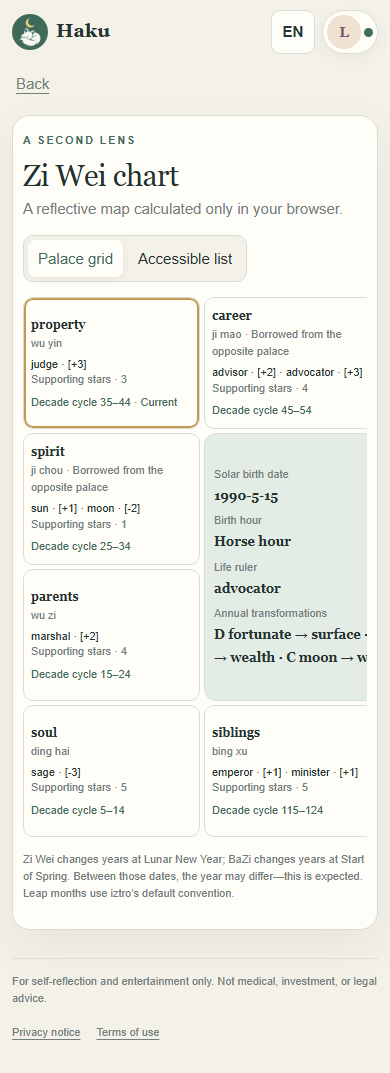
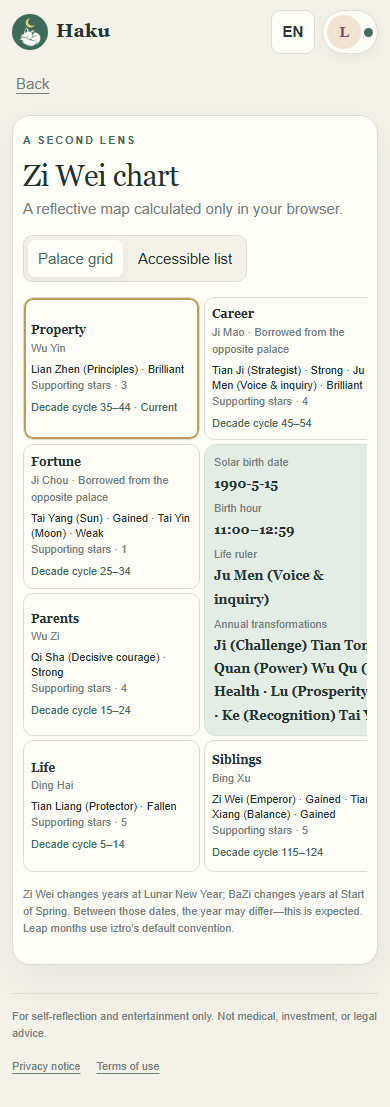
fix: refine Zi Wei English localization

diff --git a/haku.html b/haku.html
@@ -231,7 +231,7 @@ window.HAKU_API_BASE=window.HAKU_API_BASE||(/^https?:$/.test(location.protocol)?
   Object.assign(T.en,{profileGender:'Gender',viewZiwei:'View Zi Wei chart',myZiwei:'My Zi Wei chart',ziweiEyebrow:'A second lens',ziweiTitle:'Zi Wei chart',ziweiIntro:'A reflective map calculated only in your browser.',chartGrid:'Palace grid',chartList:'Accessible list',ziweiLoading:'Preparing your chart…',ziweiUnavailable:'The Zi Wei chart is temporarily unavailable. Your six-page BaZi story still works.',ziweiNeedsTime:'A birth time is needed to create a Zi Wei chart.',ziweiNoDecadal:'Decade cycles are hidden because gender was not disclosed.',ziweiFootnote:'Zi Wei changes years at Lunar New Year; BaZi changes years at Start of Spring. Between those dates, the year may differ—this is expected.',ziweiLeapNote:'Leap months use iztro’s default convention.',ziweiDetails:'Palace details',ziweiMajor:'Major stars',ziweiAux:'Supporting stars',ziweiDecadal:'Decade cycle',ziweiCurrent:'Current',ziweiSolar:'Solar birth date',ziweiLunar:'Lunar birth date',ziweiTime:'Birth hour',ziweiFive:'Five-elements class',ziweiSoul:'Life ruler',ziweiBody:'Body ruler',ziweiTransformations:'Annual transformations'});
   Object.assign(T.vi,{profileGender:'Giới tính',viewZiwei:'Xem lá số Tử Vi',myZiwei:'Lá số Tử Vi của tôi',ziweiEyebrow:'Một góc nhìn khác',ziweiTitle:'Lá số Tử Vi',ziweiIntro:'Bản đồ suy ngẫm chỉ được tính trong trình duyệt của bạn.',chartGrid:'Lưới cung',chartList:'Danh sách hỗ trợ đọc màn hình',ziweiLoading:'Đang lập lá số…',ziweiUnavailable:'Tạm thời không thể tải lá số Tử Vi. Câu chuyện Bát Tự sáu trang vẫn hoạt động.',ziweiNeedsTime:'Cần giờ sinh để lập lá số Tử Vi.',ziweiNoDecadal:'Đại hạn được ẩn vì bạn không tiết lộ giới tính.',ziweiFootnote:'Tử Vi đổi năm vào Tết âm lịch; Bát Tự đổi năm ở Lập Xuân. Người sinh giữa hai mốc có thể thấy hai năm khác nhau—điều này là bình thường.',ziweiLeapNote:'Tháng nhuận dùng quy ước mặc định của iztro.',ziweiDetails:'Chi tiết cung',ziweiMajor:'Chính tinh',ziweiAux:'Phụ tinh',ziweiDecadal:'Đại hạn',ziweiCurrent:'Hiện tại',ziweiSolar:'Ngày sinh dương lịch',ziweiLunar:'Ngày sinh âm lịch',ziweiTime:'Giờ sinh',ziweiFive:'Ngũ hành cục',ziweiSoul:'Mệnh chủ',ziweiBody:'Thân chủ',ziweiTransformations:'Tứ hóa năm sinh'});
   Object.assign(T.zh,{profileGender:'性别',viewZiwei:'查看紫微命盘',myZiwei:'我的紫微命盘',ziweiEyebrow:'另一种观察角度',ziweiTitle:'紫微命盘',ziweiIntro:'一张只在你的浏览器里计算的自我反思地图。',chartGrid:'十二宫宫格',chartList:'无障碍列表',ziweiLoading:'正在排盘……',ziweiUnavailable:'暂时无法加载紫微命盘；六页八字故事仍可正常阅读。',ziweiNeedsTime:'需要出生时间才能排紫微命盘。',ziweiNoDecadal:'你选择了不透露性别，因此不显示大限。',ziweiFootnote:'紫微以农历正月初一换年，八字以立春换年；春节和立春之间出生时两边年份可能不同，这是正常的。',ziweiLeapNote:'闰月采用 iztro 的默认口径。',ziweiDetails:'宫位详情',ziweiMajor:'主星',ziweiAux:'辅星',ziweiDecadal:'大限',ziweiCurrent:'当前',ziweiSolar:'公历生日',ziweiLunar:'农历生日',ziweiTime:'出生时辰',ziweiFive:'五行局',ziweiSoul:'命主',ziweiBody:'身主',ziweiTransformations:'生年四化'});
-  Object.assign(T.km,{profileGender:'ភេទ',viewZiwei:'មើលផែនទី Zi Wei',myZiwei:'ផែនទី Zi Wei របស់ខ្ញុំ',ziweiEyebrow:'មុំមើលមួយទៀត',ziweiTitle:'ផែនទី Zi Wei',ziweiIntro:'ផែនទីសម្រាប់ការឆ្លុះបញ្ចាំង ដែលគណនាតែក្នុងកម្មវិធីរុករករបស់អ្នក។',chartGrid:'ក្រឡាវិមាន',chartList:'បញ្ជីសម្រាប់ឧបករណ៍អានអេក្រង់',ziweiLoading:'កំពុងរៀបចំផែនទី…',ziweiUnavailable:'មិនអាចផ្ទុកផែនទី Zi Wei បណ្តោះអាសន្ន។ រឿង BaZi ប្រាំមួយទំព័រនៅតែដំណើរការ។',ziweiNeedsTime:'ត្រូវការម៉ោងកំណើត ដើម្បីរៀបចំផែនទី Zi Wei។',ziweiNoDecadal:'វដ្តដប់ឆ្នាំត្រូវបានលាក់ ព្រោះមិនបានបង្ហាញភេទ។',ziweiFootnote:'Zi Wei ប្តូរឆ្នាំនៅចូលឆ្នាំចន្ទគតិ ខណៈ BaZi ប្តូរនៅ Lichun។ អ្នកកើតចន្លោះពេលទាំងពីរអាចឃើញឆ្នាំខុសគ្នា ដែលជារឿងធម្មតា។',ziweiLeapNote:'ខែអធិកប្រើគោលការណ៍លំនាំដើមរបស់ iztro។',ziweiDetails:'ព័ត៌មានវិមាន',ziweiMajor:'ផ្កាយមេ',ziweiAux:'ផ្កាយជំនួយ',ziweiDecadal:'វដ្តដប់ឆ្នាំ',ziweiCurrent:'បច្ចុប្បន្ន',ziweiSolar:'ថ្ងៃកំណើតសុរិយគតិ',ziweiLunar:'ថ្ងៃកំណើតចន្ទគតិ',ziweiTime:'ម៉ោងកំណើត',ziweiFive:'ថ្នាក់ធាតុប្រាំ',ziweiSoul:'មេជីវិត',ziweiBody:'មេរាងកាយ',ziweiTransformations:'ការប្រែប្រួលប្រចាំឆ្នាំ'});
+  Object.assign(T.km,{profileGender:'ភេទ',viewZiwei:'មើលផែនទី Zi Wei',myZiwei:'ផែនទី Zi Wei របស់ខ្ញុំ',ziweiEyebrow:'មុំមើលមួយទៀត',ziweiTitle:'ផែនទី Zi Wei',ziweiIntro:'ផែនទីសម្រាប់ការឆ្លុះបញ្ចាំង ដែលគណនាតែក្នុងកម្មវិធីរុករករបស់អ្នក។',chartGrid:'ក្រឡាវិមាន',chartList:'បញ្ជីសម្រាប់ឧបករណ៍អានអេក្រង់',ziweiLoading:'កំពុងរៀបចំផែនទី…',ziweiUnavailable:'មិនអាចផ្ទុកផែនទី Zi Wei បណ្តោះអាសន្ន។ រឿង BaZi ប្រាំមួយទំព័រនៅតែដំណើរការ។',ziweiNeedsTime:'ត្រូវការម៉ោងកំណើត ដើម្បីរៀបចំផែនទី Zi Wei។',ziweiNoDecadal:'វដ្តដប់ឆ្នាំត្រូវបានលាក់ ព្រោះមិនបានបង្ហាញភេទ។',ziweiFootnote:'Zi Wei ប្តូរឆ្នាំនៅចូលឆ្នាំចន្ទគតិ ខណៈ BaZi ប្តូរនៅចូលនិទាឃរដូវ (立春)។ អ្នកកើតចន្លោះពេលទាំងពីរអាចឃើញឆ្នាំខុសគ្នា ដែលជារឿងធម្មតា។',ziweiLeapNote:'ខែអធិកប្រើគោលការណ៍លំនាំដើមរបស់ iztro។',ziweiDetails:'ព័ត៌មានវិមាន',ziweiMajor:'ផ្កាយមេ',ziweiAux:'ផ្កាយជំនួយ',ziweiDecadal:'វដ្តដប់ឆ្នាំ',ziweiCurrent:'បច្ចុប្បន្ន',ziweiSolar:'ថ្ងៃកំណើតសុរិយគតិ',ziweiLunar:'ថ្ងៃកំណើតចន្ទគតិ',ziweiTime:'ម៉ោងកំណើត',ziweiFive:'ថ្នាក់ធាតុប្រាំ',ziweiSoul:'មេជីវិត',ziweiBody:'មេរាងកាយ',ziweiTransformations:'ការប្រែប្រួលប្រចាំឆ្នាំ'});
   Object.assign(T.th,{profileGender:'เพศ',viewZiwei:'ดูผังจื่อเว่ย',myZiwei:'ผังจื่อเว่ยของฉัน',ziweiEyebrow:'อีกมุมหนึ่ง',ziweiTitle:'ผังจื่อเว่ย',ziweiIntro:'แผนที่เพื่อการทบทวนที่คำนวณเฉพาะในเบราว์เซอร์ของคุณ',chartGrid:'ตารางสิบสองวัง',chartList:'รายการสำหรับโปรแกรมอ่านหน้าจอ',ziweiLoading:'กำลังจัดทำผัง…',ziweiUnavailable:'โหลดผังจื่อเว่ยไม่ได้ชั่วคราว เรื่องปาจื้อหกหน้ายังอ่านได้ตามปกติ',ziweiNeedsTime:'ต้องมีเวลาเกิดเพื่อจัดทำผังจื่อเว่ย',ziweiNoDecadal:'ซ่อนรอบสิบปีเพราะไม่ได้เปิดเผยเพศ',ziweiFootnote:'จื่อเว่ยเปลี่ยนปีในวันตรุษจีน ส่วนปาจื้อเปลี่ยนปีที่ลี่ชุน ผู้เกิดระหว่างสองวันนี้อาจเห็นปีต่างกัน ซึ่งเป็นเรื่องปกติ',ziweiLeapNote:'เดือนอธิกใช้หลักเกณฑ์เริ่มต้นของ iztro',ziweiDetails:'รายละเอียดวัง',ziweiMajor:'ดาวหลัก',ziweiAux:'ดาวประกอบ',ziweiDecadal:'รอบสิบปี',ziweiCurrent:'ปัจจุบัน',ziweiSolar:'วันเกิดสากล',ziweiLunar:'วันเกิดจันทรคติ',ziweiTime:'เวลาเกิด',ziweiFive:'ธาตุประจำดวง',ziweiSoul:'ดาวเจ้าชะตา',ziweiBody:'ดาวเจ้ากาย',ziweiTransformations:'การแปรสภาพประจำปี'});
   Object.assign(T.en,{startConsentText:'Save my account and reading details when I begin (birth date, time, place, optional gender for Zi Wei decade direction, relationship status and other answers, plus Telegram ID, language, source Bot and visit time). Clear this checkbox to keep answers in this session only.',privacyNote:'With current consent, Haku saves your reading details, including optional gender, for prefill and browser-only story generation. You can edit, export or delete them here.',privacyDetailsText:'When the default checkbox remains selected, clicking Begin the story records consent and saves your Telegram account plus birth date, birth time or unknown-time choice, birth place, optional gender, relationship status, focus and duration. Gender is used only for Zi Wei decade direction. Charts are calculated in your browser and are not stored. Opening the page or completing verification never saves automatically. Records can be edited, exported or deleted here; owner-only detail views are audited.'});
   Object.assign(T.vi,{startConsentText:'Lưu tài khoản và thông tin bài đọc khi tôi bắt đầu (ngày, giờ, nơi sinh, giới tính tùy chọn để tính chiều đại hạn Tử Vi, tình trạng tình cảm và các câu trả lời khác, cùng Telegram ID, ngôn ngữ, Bot nguồn và thời gian truy cập). Bỏ chọn để chỉ giữ câu trả lời trong phiên này.',privacyNote:'Khi có đồng ý hiện hành, Haku lưu thông tin bài đọc, gồm giới tính tùy chọn, để điền sẵn và tạo câu chuyện chỉ trong trình duyệt. Bạn có thể sửa, xuất hoặc xóa tại đây.',privacyDetailsText:'Khi ô mặc định vẫn được chọn, Bắt đầu câu chuyện sẽ ghi nhận đồng ý và lưu tài khoản Telegram cùng ngày, giờ hoặc lựa chọn không rõ giờ, nơi sinh, giới tính tùy chọn, tình trạng tình cảm, mối quan tâm và thời gian. Giới tính chỉ dùng để tính chiều đại hạn Tử Vi. Lá số được tính trong trình duyệt và không được lưu. Mở trang hoặc xác minh không tự lưu. Bạn có thể sửa, xuất hoặc xóa; mọi lần owner xem chi tiết đều được ghi nhật ký.'});
@@ -245,10 +245,13 @@ window.HAKU_API_BASE=window.HAKU_API_BASE||(/^https?:$/.test(location.protocol)?
     km:{palaces:{命宫:'ជីវិត',兄弟:'បងប្អូន',夫妻:'ទំនាក់ទំនង',子女:'កូន',财帛:'ទ្រព្យ',疾厄:'សុខុមាលភាព',迁移:'ដំណើរ',仆役:'មិត្តភក្តិ',奴仆:'មិត្តភក្តិ',交友:'មិត្តភក្តិ',官禄:'ការងារ',田宅:'ផ្ទះ',福德:'ចិត្តក្នុង',父母:'ឪពុកម្តាយ'},storySoul:'វិមានជីវិតរបស់អ្នកផ្តោតលើ {star}៖ {theme}',storySpouse:'វិមានទំនាក់ទំនងបង្ហាញ {star}។ {theme} {relationship} {concern}',borrowed:'ខ្ចីផ្កាយមេពីវិមានទល់មុខ',relationships:['រក្សាការចង់ដឹង ដោយមិនបង្ខំទំនាក់ទំនងឱ្យលឿន។','ការសន្ទនាស្មោះត្រង់ និងទន់ភ្លន់ អាចទុកកន្លែងឱ្យទាំងពីរ។','ដាក់ឈ្មោះអ្វីដែលមិនច្បាស់ មុនជ្រើសជំហានបន្ទាប់។','ឱ្យភាពនឹងនរ និងការថែខ្លួនកំណត់ល្បឿន។'],concerns:['សង្កេតអ្វីដែលច្បាស់ឡើង ពេលមិនបង្ខំចម្លើយ។','អ្នកអាចលែងការរំពឹងតូចមួយ ដោយមិនបោះបង់អ្វីសំខាន់។','បំបែកអ្វីដែលអ្នកដឹង ពីអ្វីដែលអ្នកកំពុងស្រមៃ។','ទំនុកចិត្តអាចត្រឡប់តាមសកម្មភាពតូចៗដែលមើលឃើញ។'],themes:{紫微:'ការដឹកនាំស្ងប់ស្ងាត់លូតលាស់ពីការទទួលខុសត្រូវ និងការស្តាប់។',天机:'ការចង់ដឹង និងគំនិតបត់បែនជួយឱ្យឃើញផ្លូវផ្សេង។',太阳:'ភាពកក់ក្តៅមានកម្លាំង ពេលមិនចាំបាច់បង្ហាញខ្លួន។',武曲:'ការផ្តោតជាក់ស្តែងអាចបម្លែងបំណងមិនច្បាស់ទៅជាជំហានមួយ។',天同:'ភាពទន់ភ្លន់ និងធូរស្រាលអាចជាកម្លាំង មិនមែនការគេចវេស។',廉贞:'តម្លៃរឹងមាំអញ្ជើញឱ្យជ្រើសដោយប្រុងប្រយ័ត្ន។',天府:'ភាពនឹងនរ និងការថែរក្សាជួយបង្កើតអារម្មណ៍ថាគ្រប់គ្រាន់។',太阴:'ការឆ្លុះបញ្ចាំង និងភាពរសើបបង្ហាញអ្វីដែលសំឡេងរំខានលាក់។',贪狼:'បំណង និងច្នៃប្រឌិតមានទិសដៅ ពេលអ្នកនិយាយច្បាស់ពីអ្វីដែលចង់បាន។',巨门:'សំណួរ និងពាក្យប្រុងប្រយ័ត្នបើកការសន្ទនាស្មោះត្រង់។',天相:'ភាពយុត្តិធម៌ និងការគិតគូរជួយកាន់មុំមើលច្រើន។',天梁:'ចិត្តការពារអាចក្លាយជាការគាំទ្រមានប្រាជ្ញា ដោយមិនទទួលគ្រប់យ៉ាង។',七杀:'ភាពក្លាហានល្អបំផុត ពេលមានការផ្អាកមុនសម្រេច។',破军:'ការផ្លាស់ប្តូរអាចជាការកែសម្រួលដោយគិត មិនមែនការទស្សន៍ទាយ។'}},
     th:{palaces:{命宫:'ชีวิต',兄弟:'พี่น้อง',夫妻:'ความสัมพันธ์',子女:'บุตร',财帛:'ทรัพย์',疾厄:'สุขภาวะ',迁移:'เดินทาง',仆役:'มิตร',奴仆:'มิตร',交友:'มิตร',官禄:'การงาน',田宅:'บ้าน',福德:'ใจภายใน',父母:'บิดามารดา'},storySoul:'วังชีวิตของคุณมี {star} เป็นแกน: {theme}',storySpouse:'วังความสัมพันธ์เน้น {star} {theme} {relationship} {concern}',borrowed:'ยืมดาวหลักจากวังตรงข้าม',relationships:['รักษาความอยากรู้โดยไม่เร่งความสัมพันธ์','บทสนทนาที่อ่อนโยนและจริงใจเปิดพื้นที่ให้ทั้งสองฝ่าย','บอกสิ่งที่ยังไม่ชัดก่อนเลือกก้าวต่อไป','ให้ความมั่นคงและการดูแลตัวเองกำหนดจังหวะ'],concerns:['สังเกตสิ่งที่ชัดขึ้นเมื่อไม่บังคับคำตอบ','วางความคาดหวังเล็กหนึ่งอย่างได้โดยไม่ทิ้งสิ่งสำคัญ','แยกสิ่งที่รู้จริงออกจากสิ่งที่กำลังจินตนาการ','ความไว้ใจกลับมาได้จากการกระทำเล็กๆ ที่มองเห็น'],themes:{紫微:'ภาวะผู้นำที่สงบเติบโตจากความรับผิดชอบและการฟัง',天机:'ความอยากรู้และคิดยืดหยุ่นช่วยให้เห็นอีกเส้นทาง',太阳:'ความอบอุ่นมีพลังเมื่อให้โดยไม่ต้องแสดงตัว',武曲:'การลงมืออย่างเป็นรูปธรรมเปลี่ยนความหวังคลุมเครือเป็นก้าวชัดเจน',天同:'ความอ่อนโยนและผ่อนคลายเป็นพลังได้ ไม่ใช่การหลบเลี่ยง',廉贞:'คุณค่าที่ชัดชวนให้เลือกอย่างรอบคอบแทนความรุนแรงชั่วครู่',天府:'ความมั่นคงและการดูแลช่วยสร้างความรู้สึกว่ามีเพียงพอ',太阴:'การทบทวนและความละเอียดอ่อนเผยสิ่งที่เสียงรบกวนบดบัง',贪狼:'ความปรารถนาและสร้างสรรค์มีทิศเมื่อพูดสิ่งที่ต้องการจริง',巨门:'คำถามและถ้อยคำรอบคอบเปิดบทสนทนาที่จริงใจขึ้น',天相:'ความเป็นธรรมและเห็นใจช่วยให้มองได้หลายมุม',天梁:'สัญชาตญาณปกป้องเป็นการสนับสนุนที่ฉลาดได้โดยไม่แบกทุกอย่าง',七杀:'ความกล้าทำงานได้ดีที่สุดเมื่อหยุดหนึ่งจังหวะก่อนตัดสินใจ',破军:'มองการเปลี่ยนแปลงเป็นการปรับแก้อย่างตั้งใจ ไม่ใช่คำทำนาย'}}
   };
+  Object.assign(ZIWEI_COPY.en.palaces,{夫妻:'Spouse',疾厄:'Health',田宅:'Property',福德:'Fortune'});ZIWEI_COPY.en.storySpouse='Your Spouse Palace highlights {star}. {theme} {relationship} {concern}';
   const ZIWEI_MAIN=['紫微','天机','太阳','武曲','天同','廉贞','天府','太阴','贪狼','巨门','天相','天梁','七杀','破军'],ZIWEI_AUX=['左辅','右弼','文昌','文曲','禄存','天马','擎羊','陀罗','火星','铃星','天魁','天钺','地空','地劫'];
+  const ZIWEI_PALACE_ORDER={命宫:0,兄弟:1,夫妻:2,子女:3,财帛:4,疾厄:5,迁移:6,仆役:7,奴仆:7,交友:7,官禄:8,田宅:9,福德:10,父母:11};
   const ZIWEI_LOCAL={
-    th:{main:['ดาวจักรพรรดิ (紫微)','ดาวปัญญา (天机)','ดาวอาทิตย์ (太阳)','ดาวทรัพย์และวินัย (武曲)','ดาวอ่อนโยน (天同)','ดาวหลักการ (廉贞)','ดาวคลัง (天府)','ดาวจันทร์ (太阴)','ดาวความปรารถนา (贪狼)','ดาววาจา (巨门)','ดาวสมดุล (天相)','ดาวคุ้มครอง (天梁)','ดาวกล้าตัดสินใจ (七杀)','ดาวเปลี่ยนแปลง (破军)'],aux:['ดาวช่วยซ้าย (左辅)','ดาวช่วยขวา (右弼)','ดาวอักษร (文昌)','ดาวศิลป์ (文曲)','ดาวทรัพย์สะสม (禄存)','ดาวม้าเดินทาง (天马)','ดาวอุปสรรค (擎羊)','ดาวหน่วงเหนี่ยว (陀罗)','ดาวไฟ (火星)','ดาวระฆัง (铃星)','ดาวผู้เกื้อหนุน (天魁)','ดาวผู้เกื้อหนุนหญิง (天钺)','ดาวว่าง (地空)','ดาวสูญเสีย (地劫)'],brightness:{庙:'เด่นมาก (庙)',旺:'เด่น (旺)',得:'ได้ตำแหน่ง (得)',利:'เกื้อหนุน (利)',平:'ปกติ (平)',不得地:'ไม่ถูกตำแหน่ง (不得地)',陷:'อ่อนกำลัง (陷)'},mutagen:{禄:'ลาภ (禄)',权:'อำนาจ (权)',科:'ชื่อเสียง (科)',忌:'ข้อท้าทาย (忌)'},five:{水二局:'ธาตุน้ำ ระดับ 2 (水二局)',木三局:'ธาตุไม้ ระดับ 3 (木三局)',金四局:'ธาตุทอง ระดับ 4 (金四局)',土五局:'ธาตุดิน ระดับ 5 (土五局)',火六局:'ธาตุไฟ ระดับ 6 (火六局)'},stems:['เจี่ย (甲)','อี่ (乙)','ปิ่ง (丙)','ติง (丁)','อู้ (戊)','จี่ (己)','เกิง (庚)','ซิน (辛)','เหริน (壬)','กุ่ย (癸)'],branches:['จื่อ (子)','โฉ่ว (丑)','อิ๋น (寅)','เหม่า (卯)','เฉิน (辰)','ซื่อ (巳)','อู่ (午)','เว่ย (未)','เซิน (申)','โหย่ว (酉)','ซวี (戌)','ไฮ่ (亥)'],starFallback:'ดาวประกอบ',brightnessFallback:'ระดับ'},
-    km:{main:['ផ្កាយអធិរាជ (紫微)','ផ្កាយបញ្ញា (天机)','ផ្កាយព្រះអាទិត្យ (太阳)','ផ្កាយទ្រព្យនិងវិន័យ (武曲)','ផ្កាយទន់ភ្លន់ (天同)','ផ្កាយគោលការណ៍ (廉贞)','ផ្កាយឃ្លាំង (天府)','ផ្កាយព្រះចន្ទ (太阴)','ផ្កាយបំណង (贪狼)','ផ្កាយវោហារ (巨门)','ផ្កាយតុល្យភាព (天相)','ផ្កាយការពារ (天梁)','ផ្កាយសម្រេចក្លាហាន (七杀)','ផ្កាយការផ្លាស់ប្តូរ (破军)'],aux:['ផ្កាយជំនួយឆ្វេង (左辅)','ផ្កាយជំនួយស្តាំ (右弼)','ផ្កាយអក្សរ (文昌)','ផ្កាយសិល្បៈ (文曲)','ផ្កាយសន្សំទ្រព្យ (禄存)','ផ្កាយសេះដំណើរ (天马)','ផ្កាយឧបសគ្គ (擎羊)','ផ្កាយពន្យារ (陀罗)','ផ្កាយភ្លើង (火星)','ផ្កាយកណ្ដឹង (铃星)','ផ្កាយអ្នកគាំទ្រ (天魁)','ផ្កាយអ្នកគាំទ្រស្រី (天钺)','ផ្កាយទទេ (地空)','ផ្កាយបាត់បង់ (地劫)'],brightness:{庙:'ខ្លាំងបំផុត (庙)',旺:'ខ្លាំង (旺)',得:'ទទួលទីតាំង (得)',利:'អំណោយផល (利)',平:'ធម្មតា (平)',不得地:'មិនត្រូវទីតាំង (不得地)',陷:'ខ្សោយ (陷)'},mutagen:{禄:'លាភ (禄)',权:'អំណាច (权)',科:'កិត្តិយស (科)',忌:'បញ្ហាប្រឈម (忌)'},five:{水二局:'ធាតុទឹក កម្រិត 2 (水二局)',木三局:'ធាតុឈើ កម្រិត 3 (木三局)',金四局:'ធាតុលោហៈ កម្រិត 4 (金四局)',土五局:'ធាតុដី កម្រិត 5 (土五局)',火六局:'ធាតុភ្លើង កម្រិត 6 (火六局)'},stems:['គល់ទី 1 (甲)','គល់ទី 2 (乙)','គល់ទី 3 (丙)','គល់ទី 4 (丁)','គល់ទី 5 (戊)','គល់ទី 6 (己)','គល់ទី 7 (庚)','គល់ទី 8 (辛)','គល់ទី 9 (壬)','គល់ទី 10 (癸)'],branches:['មែកទី 1 (子)','មែកទី 2 (丑)','មែកទី 3 (寅)','មែកទី 4 (卯)','មែកទី 5 (辰)','មែកទី 6 (巳)','មែកទី 7 (午)','មែកទី 8 (未)','មែកទី 9 (申)','មែកទី 10 (酉)','មែកទី 11 (戌)','មែកទី 12 (亥)'],starFallback:'ផ្កាយរង',brightnessFallback:'កម្រិត'}
+    en:{main:['Zi Wei (Emperor)','Tian Ji (Strategist)','Tai Yang (Sun)','Wu Qu (Wealth & discipline)','Tian Tong (Gentleness)','Lian Zhen (Principles)','Tian Fu (Stewardship)','Tai Yin (Moon)','Tan Lang (Desire & creativity)','Ju Men (Voice & inquiry)','Tian Xiang (Balance)','Tian Liang (Protector)','Qi Sha (Decisive courage)','Po Jun (Change)'],aux:['Zuo Fu (Left assistant)','You Bi (Right assistant)','Wen Chang (Scholar)','Wen Qu (Arts)','Lu Cun (Stored prosperity)','Tian Ma (Travel)','Qing Yang (Challenge)','Tuo Luo (Delay)','Huo Xing (Fire)','Ling Xing (Bell)','Tian Kui (Noble aid)','Tian Yue (Noble aid)','Di Kong (Emptiness)','Di Jie (Loss)'],brightness:{庙:'Brilliant',旺:'Strong',得:'Gained',利:'Favorable',平:'Neutral',不:'Weak',陷:'Fallen'},mutagen:{禄:'Lu (Prosperity)',权:'Quan (Power)',科:'Ke (Recognition)',忌:'Ji (Challenge)'},five:{水二局:'Water second class',木三局:'Wood third class',金四局:'Metal fourth class',土五局:'Earth fifth class',火六局:'Fire sixth class'},stems:['Jia','Yi','Bing','Ding','Wu','Ji','Geng','Xin','Ren','Gui'],branches:['Zi','Chou','Yin','Mao','Chen','Si','Wu','Wei','Shen','You','Xu','Hai'],starFallback:'Supporting star',brightnessFallback:'Unknown brightness'},
+    th:{main:['ดาวจักรพรรดิ (紫微)','ดาวปัญญา (天机)','ดาวอาทิตย์ (太阳)','ดาวทรัพย์และวินัย (武曲)','ดาวอ่อนโยน (天同)','ดาวหลักการ (廉贞)','ดาวคลัง (天府)','ดาวจันทร์ (太阴)','ดาวความปรารถนา (贪狼)','ดาววาจา (巨门)','ดาวสมดุล (天相)','ดาวคุ้มครอง (天梁)','ดาวกล้าตัดสินใจ (七杀)','ดาวเปลี่ยนแปลง (破军)'],aux:['ดาวช่วยซ้าย (左辅)','ดาวช่วยขวา (右弼)','ดาวอักษร (文昌)','ดาวศิลป์ (文曲)','ดาวทรัพย์สะสม (禄存)','ดาวม้าเดินทาง (天马)','ดาวอุปสรรค (擎羊)','ดาวหน่วงเหนี่ยว (陀罗)','ดาวไฟ (火星)','ดาวระฆัง (铃星)','ดาวผู้เกื้อหนุน (天魁)','ดาวผู้เกื้อหนุนหญิง (天钺)','ดาวว่าง (地空)','ดาวสูญเสีย (地劫)'],brightness:{庙:'เด่นมาก (庙)',旺:'เด่น (旺)',得:'ได้ตำแหน่ง (得)',利:'เกื้อหนุน (利)',平:'ปกติ (平)',不:'ไม่ถูกตำแหน่ง (不得地)',陷:'อ่อนกำลัง (陷)'},mutagen:{禄:'ลาภ (禄)',权:'อำนาจ (权)',科:'ชื่อเสียง (科)',忌:'ข้อท้าทาย (忌)'},five:{水二局:'ธาตุน้ำ ระดับ 2 (水二局)',木三局:'ธาตุไม้ ระดับ 3 (木三局)',金四局:'ธาตุทอง ระดับ 4 (金四局)',土五局:'ธาตุดิน ระดับ 5 (土五局)',火六局:'ธาตุไฟ ระดับ 6 (火六局)'},stems:['เจี่ย (甲)','อี่ (乙)','ปิ่ง (丙)','ติง (丁)','อู้ (戊)','จี่ (己)','เกิง (庚)','ซิน (辛)','เหริน (壬)','กุ่ย (癸)'],branches:['จื่อ (子)','โฉ่ว (丑)','อิ๋น (寅)','เหม่า (卯)','เฉิน (辰)','ซื่อ (巳)','อู่ (午)','เว่ย (未)','เซิน (申)','โหย่ว (酉)','ซวี (戌)','ไฮ่ (亥)'],starFallback:'ดาวประกอบ',brightnessFallback:'ระดับ'},
+    km:{main:['ផ្កាយអធិរាជ (紫微)','ផ្កាយបញ្ញា (天机)','ផ្កាយព្រះអាទិត្យ (太阳)','ផ្កាយទ្រព្យនិងវិន័យ (武曲)','ផ្កាយទន់ភ្លន់ (天同)','ផ្កាយគោលការណ៍ (廉贞)','ផ្កាយឃ្លាំង (天府)','ផ្កាយព្រះចន្ទ (太阴)','ផ្កាយបំណង (贪狼)','ផ្កាយវោហារ (巨门)','ផ្កាយតុល្យភាព (天相)','ផ្កាយការពារ (天梁)','ផ្កាយសម្រេចក្លាហាន (七杀)','ផ្កាយការផ្លាស់ប្តូរ (破军)'],aux:['ផ្កាយជំនួយឆ្វេង (左辅)','ផ្កាយជំនួយស្តាំ (右弼)','ផ្កាយអក្សរ (文昌)','ផ្កាយសិល្បៈ (文曲)','ផ្កាយសន្សំទ្រព្យ (禄存)','ផ្កាយសេះដំណើរ (天马)','ផ្កាយឧបសគ្គ (擎羊)','ផ្កាយពន្យារ (陀罗)','ផ្កាយភ្លើង (火星)','ផ្កាយកណ្ដឹង (铃星)','ផ្កាយអ្នកគាំទ្រ (天魁)','ផ្កាយអ្នកគាំទ្រស្រី (天钺)','ផ្កាយទទេ (地空)','ផ្កាយបាត់បង់ (地劫)'],brightness:{庙:'ខ្លាំងបំផុត (庙)',旺:'ខ្លាំង (旺)',得:'ទទួលទីតាំង (得)',利:'អំណោយផល (利)',平:'ធម្មតា (平)',不:'មិនត្រូវទីតាំង (不得地)',陷:'ខ្សោយ (陷)'},mutagen:{禄:'លាភ (禄)',权:'អំណាច (权)',科:'កិត្តិយស (科)',忌:'បញ្ហាប្រឈម (忌)'},five:{水二局:'ធាតុទឹក កម្រិត 2 (水二局)',木三局:'ធាតុឈើ កម្រិត 3 (木三局)',金四局:'ធាតុលោហៈ កម្រិត 4 (金四局)',土五局:'ធាតុដី កម្រិត 5 (土五局)',火六局:'ធាតុភ្លើង កម្រិត 6 (火六局)'},stems:['គល់ទី 1 (甲)','គល់ទី 2 (乙)','គល់ទី 3 (丙)','គល់ទី 4 (丁)','គល់ទី 5 (戊)','គល់ទី 6 (己)','គល់ទី 7 (庚)','គល់ទី 8 (辛)','គល់ទី 9 (壬)','គល់ទី 10 (癸)'],branches:['មែកទី 1 (子)','មែកទី 2 (丑)','មែកទី 3 (寅)','មែកទី 4 (卯)','មែកទី 5 (辰)','មែកទី 6 (巳)','មែកទី 7 (午)','មែកទី 8 (未)','មែកទី 9 (申)','មែកទី 10 (酉)','មែកទី 11 (戌)','មែកទី 12 (亥)'],starFallback:'ផ្កាយរង',brightnessFallback:'កម្រិត'}
   };
   const $=s=>document.querySelector(s), $$=s=>[...document.querySelectorAll(s)];
   const store={get(k){try{return localStorage.getItem(k)}catch{return null}},set(k,v){try{localStorage.setItem(k,v)}catch{}}};
@@ -446,12 +449,12 @@ window.HAKU_API_BASE=window.HAKU_API_BASE||(/^https?:$/.test(location.protocol)?
   function ziweiTimeIndex(hour){hour=Number(hour);if(hour===23)return 12;if(hour===0)return 0;return Math.floor((hour+1)/2)}
   function loadIztro(){if(window.iztro?.astro?.bySolar)return Promise.resolve(window.iztro);if(iztroPromise)return iztroPromise;iztroPromise=new Promise((resolve,reject)=>{const script=document.createElement('script');script.src='/assets/vendor/iztro-2.6.3.min.js';script.async=true;script.onload=()=>window.iztro?.astro?.bySolar?resolve(window.iztro):reject(Error('iztro_missing'));script.onerror=()=>reject(Error('iztro_load_failed'));document.head.append(script)}).catch(error=>{iztroPromise=null;ziweiLoadFailed=true;throw error});return iztroPromise}
   function ziweiStars(palace){return [...(palace.majorStars||[]),...(palace.minorStars||[]),...(palace.adjectiveStars||[])]}
-  function localizeZiwei(kind,key,official=key){const custom=ZIWEI_LOCAL[lang];if(!custom)return official;if(kind==='palace')return (ZIWEI_COPY[lang].palaces[key]||official)+' ('+key+')';if(kind==='star'){const main=ZIWEI_MAIN.indexOf(key),aux=ZIWEI_AUX.indexOf(key);return main>=0?custom.main[main]:aux>=0?custom.aux[aux]:custom.starFallback+' ('+key+')'}if(kind==='stem')return custom.stems[STEMS.indexOf(key)]||key;if(kind==='branch')return custom.branches[BRANCHES.indexOf(key)]||key;if(kind==='brightness')return custom.brightness[key]||custom.brightnessFallback+' ('+key+')';return custom[kind]?.[key]||official}
+  function localizeZiwei(kind,key,official=key,locale=lang){const custom=ZIWEI_LOCAL[locale];if(!custom)return official;if(kind==='palace'){const name=ZIWEI_COPY[locale].palaces[key]||official;return ['th','km'].includes(locale)?name+' ('+key+')':name}if(kind==='star'){const main=ZIWEI_MAIN.indexOf(key),aux=ZIWEI_AUX.indexOf(key);return main>=0?custom.main[main]:aux>=0?custom.aux[aux]:custom.starFallback+' ('+key+')'}if(kind==='stem')return custom.stems[STEMS.indexOf(key)]||key;if(kind==='branch')return custom.branches[BRANCHES.indexOf(key)]||key;if(kind==='brightness')return custom.brightness[key]||custom.brightnessFallback+' ('+key+')';return custom[kind]?.[key]||official}
   function normalizeZiweiStar(display,key){const mutagen=key.mutagen?localizeZiwei('mutagen',key.mutagen,display?.mutagen||key.mutagen):'';return {key:key.name,name:localizeZiwei('star',key.name,display?.name||key.name),brightness:key.brightness?localizeZiwei('brightness',key.brightness,display?.brightness||key.brightness):'',mutagenKey:key.mutagen||'',mutagen:lang==='zh'&&mutagen?'化'+mutagen:mutagen}}
   function numericLunarDate(raw){const lunar=raw.rawDates.lunarDate,prefix={en:'Lunar',vi:'Âm lịch',th:'จันทรคติ',km:'ចន្ទគតិ'}[lang],date=lang==='vi'?lunar.lunarDay+'/'+lunar.lunarMonth:lunar.lunarMonth+'/'+lunar.lunarDay;return prefix+' '+date+(lunar.isLeap?' · '+tr('ziweiLeapNote'):'')}
   function ziweiHourText(raw,timeIndex){if(!ZIWEI_LOCAL[lang])return raw.time;const start=timeIndex===12?23:timeIndex===0?0:timeIndex*2-1,end=timeIndex===12?23:timeIndex===0?0:timeIndex*2;return String(start).padStart(2,'0')+':00–'+String(end).padStart(2,'0')+':59'}
   function normalizeZiweiChart(raw,keyRaw,draft,standard){const native=keyRaw.palaces.map((keyPalace,index)=>{const display=raw.palaces[index],major=(keyPalace.majorStars||[]).map((star,starIndex)=>normalizeZiweiStar(display.majorStars?.[starIndex],star)),supporting=[...(keyPalace.minorStars||[]).map((star,starIndex)=>normalizeZiweiStar(display.minorStars?.[starIndex],star)),...(keyPalace.adjectiveStars||[]).map((star,starIndex)=>normalizeZiweiStar(display.adjectiveStars?.[starIndex],star))];return {key:keyPalace.name,name:localizeZiwei('palace',keyPalace.name,display.name),heavenlyStem:localizeZiwei('stem',keyPalace.heavenlyStem,display.heavenlyStem),earthlyBranch:localizeZiwei('branch',keyPalace.earthlyBranch,display.earthlyBranch),major,supporting,all:[...major,...supporting],borrowed:false,decadal:keyPalace.decadal}}),palaces=native.map((palace,index)=>palace.major.length?palace:{...palace,major:native[(index+6)%12].major,borrowed:true}),find=key=>palaces.find(palace=>palace.key===key),soul=find('命宫'),spouse=find('夫妻'),transformations=[],now=new Date(),today=[now.getFullYear(),now.getMonth()+1,now.getDate()].join('-');native.forEach(palace=>palace.all.forEach(star=>{if(star.mutagenKey)transformations.push({star:star.name,mutagen:star.mutagen,palace:palace.name})}));const summary={solarDate:raw.solarDate,lunarDate:lang==='zh'?raw.lunarDate:numericLunarDate(raw),time:ziweiHourText(raw,ziweiTimeIndex(standard.hour)),fiveElementsClass:localizeZiwei('five',keyRaw.fiveElementsClass,raw.fiveElementsClass),soul:localizeZiwei('star',keyRaw.soul,raw.soul),body:localizeZiwei('star',keyRaw.body,raw.body)};return {raw,keyRaw,summary,palaces,transformations,standard,timeIndex:ziweiTimeIndex(standard.hour),gender:draft.gender,currentDecadalIndex:keyRaw.horoscope(today).decadal.index,soulPrimaryKey:soul?.major[0]?.key||'',soulPrimary:soul?.major[0]?.name||'',spousePrimaryKey:spouse?.major[0]?.key||'',spousePrimary:spouse?.major[0]?.name||''}}
-  async function createZiweiChart(draft){if(!draft?.date||!draft.time||draft.unknownTime)throw Error('ziwei_time_required');const input=ziweiBirthInput(draft),iztro=await loadIztro();iztro.astro.config({yearDivide:'normal',horoscopeDivide:'normal'});const gender=draft.gender==='female'?'女':'男',language={en:'en-US',vi:'vi-VN'}[lang]||'zh-CN',keyRaw=iztro.astro.bySolar(input.date,input.timeIndex,gender,true,'zh-CN'),raw=language==='zh-CN'?keyRaw:iztro.astro.bySolar(input.date,input.timeIndex,gender,true,language);return normalizeZiweiChart(raw,keyRaw,draft,input.standard)}
+  async function createZiweiChart(draft){if(!draft?.date||!draft.time||draft.unknownTime)throw Error('ziwei_time_required');const input=ziweiBirthInput(draft),iztro=await loadIztro();iztro.astro.config({yearDivide:'normal',horoscopeDivide:'normal'});const gender=draft.gender==='female'?'女':'男',language=lang==='vi'?'vi-VN':'zh-CN',keyRaw=iztro.astro.bySolar(input.date,input.timeIndex,gender,true,'zh-CN'),raw=language==='zh-CN'?keyRaw:iztro.astro.bySolar(input.date,input.timeIndex,gender,true,language);return normalizeZiweiChart(raw,keyRaw,draft,input.standard)}
   async function prepareStoryZiwei(){storyZiwei=null;ziweiLoadFailed=false;if(answers.unknownTime||!answers.time)return;try{storyZiwei=await createZiweiChart(answers);if(!$('#manga-screen').hidden)renderManga()}catch{ziweiLoadFailed=true;if(!$('#manga-screen').hidden)renderManga()}}
   function ziweiTheme(chart,palace){const copy=ZIWEI_COPY[lang],star=palace==='soul'?chart.soulPrimary:chart.spousePrimary,key=palace==='soul'?chart.soulPrimaryKey:chart.spousePrimaryKey;return {star,theme:copy.themes[key]||''}}
   function ziweiStoryLine(kind){if(!storyZiwei)return '';const copy=ZIWEI_COPY[lang],subject=ziweiTheme(storyZiwei,kind);if(!subject.star)return '';if(kind==='soul')return copy.storySoul.replace('{star}',subject.star).replace('{theme}',subject.theme);return copy.storySpouse.replace('{star}',subject.star).replace('{theme}',subject.theme).replace('{relationship}',copy.relationships[Math.max(0,answers.relationship)]||'').replace('{concern}',copy.concerns[Math.max(0,answers.concern)]||'')}
@@ -461,7 +464,7 @@ window.HAKU_API_BASE=window.HAKU_API_BASE||(/^https?:$/.test(location.protocol)?
   function selectZiweiPalace(index){if(!currentZiwei)return;const palace=currentZiwei.palaces[index],detail=$('#ziwei-detail'),decadal=['male','female'].includes(currentZiwei.gender)&&palace.decadal?.range?'<h3 style="margin-top:13px">'+escapeHTML(tr('ziweiDecadal'))+'</h3><p>'+escapeHTML(palace.decadal.range.join('–'))+(index===currentZiwei.currentDecadalIndex?' · '+escapeHTML(tr('ziweiCurrent')):'')+'</p>':'';$$('[data-ziwei-palace]').forEach(button=>button.setAttribute('aria-expanded',String(Number(button.dataset.ziweiPalace)===index)));detail.innerHTML='<h2>'+escapeHTML(palace.name)+' · '+escapeHTML(palace.heavenlyStem+' '+palace.earthlyBranch)+'</h2>'+(palace.borrowed?'<p class="tiny">'+escapeHTML(ZIWEI_COPY[lang].borrowed)+'</p>':'')+'<h3>'+escapeHTML(tr('ziweiMajor'))+'</h3><div class="ziwei-detail-list">'+palace.major.map(star=>'<span>'+escapeHTML(ziweiStarLabel(star,palace.borrowed))+'</span>').join('')+'</div><h3 style="margin-top:13px">'+escapeHTML(tr('ziweiAux'))+'</h3><div class="ziwei-detail-list">'+palace.supporting.map(star=>'<span>'+escapeHTML(ziweiStarLabel(star))+'</span>').join('')+'</div>'+decadal;detail.hidden=false;detail.scrollIntoView({behavior:'smooth',block:'nearest'})}
   function ziweiPalaceMarkup(palace,index,position,chart){const major=palace.major.map(star=>ziweiStarLabel(star,palace.borrowed)).join(' · ')||'—',supporting=tr('ziweiAux')+' · '+palace.supporting.length,current=['male','female'].includes(chart.gender)&&index===chart.currentDecadalIndex;return '<button class="ziwei-palace '+(current?'is-current':'')+'" style="grid-area:'+position+'" type="button" data-ziwei-palace="'+index+'" aria-expanded="false"><strong>'+escapeHTML(palace.name)+'</strong><small>'+escapeHTML(palace.heavenlyStem+' '+palace.earthlyBranch)+(palace.borrowed?' · '+escapeHTML(ZIWEI_COPY[lang].borrowed):'')+'</small><span class="ziwei-stars">'+escapeHTML(major)+'</span><small>'+escapeHTML(supporting)+'</small>'+ziweiDecadal(palace,chart,index)+'</button>'}
   function setZiweiMode(mode){const list=mode==='list';$('#ziwei-board-scroll').hidden=list;$('#ziwei-list').hidden=!list;$$('[data-ziwei-mode]').forEach(item=>item.setAttribute('aria-pressed',String(item.dataset.ziweiMode===mode)))}
-  function renderZiweiChart(chart){currentZiwei=chart;const positions=['1/1','1/2','1/3','1/4','2/4','3/4','4/4','4/3','4/2','4/1','3/1','2/1'],transformations=chart.transformations.map(item=>item.mutagen+' '+item.star+' → '+item.palace).join(' · '),summary=chart.summary,center='<section class="ziwei-center"><div><small>'+escapeHTML(tr('ziweiSolar'))+'</small><strong>'+escapeHTML(summary.solarDate)+'</strong></div><div><small>'+escapeHTML(tr('ziweiLunar'))+'</small><strong>'+escapeHTML(summary.lunarDate)+'</strong></div><div><small>'+escapeHTML(tr('ziweiTime'))+'</small><strong>'+escapeHTML(summary.time)+'</strong></div><div><small>'+escapeHTML(tr('ziweiFive'))+'</small><strong>'+escapeHTML(summary.fiveElementsClass)+'</strong></div><div><small>'+escapeHTML(tr('ziweiSoul'))+'</small><strong>'+escapeHTML(summary.soul)+'</strong></div><div><small>'+escapeHTML(tr('ziweiBody'))+'</small><strong>'+escapeHTML(summary.body)+'</strong></div><div style="grid-column:1/-1"><small>'+escapeHTML(tr('ziweiTransformations'))+'</small><strong>'+escapeHTML(transformations)+'</strong></div></section>';$('#ziwei-board').innerHTML=chart.palaces.map((palace,index)=>ziweiPalaceMarkup(palace,index,positions[index],chart)).join('')+center;$('#ziwei-list').innerHTML=chart.palaces.map((palace,index)=>'<li><button type="button" data-ziwei-palace="'+index+'"><strong>'+escapeHTML(palace.name)+'</strong> · '+escapeHTML(palace.heavenlyStem+' '+palace.earthlyBranch)+' — '+escapeHTML(palace.major.map(star=>ziweiStarLabel(star,palace.borrowed)).join(', ')||'—')+'</button></li>').join('');$$('[data-ziwei-palace]').forEach(button=>button.onclick=()=>selectZiweiPalace(Number(button.dataset.ziweiPalace)));const boardButtons=$$('#ziwei-board [data-ziwei-palace]');boardButtons.forEach((button,index)=>button.onkeydown=event=>{const delta={ArrowRight:1,ArrowLeft:-1,ArrowDown:3,ArrowUp:-3}[event.key];if(delta===undefined)return;event.preventDefault();boardButtons[(index+delta+12)%12].focus()});setZiweiMode(matchMedia('(max-width:419px)').matches?'list':'grid');$('#ziwei-footnote').textContent=tr('ziweiFootnote')+' '+tr('ziweiLeapNote')+(chart.gender==='undisclosed'||chart.gender===null?' '+tr('ziweiNoDecadal'):'');$('#ziwei-status').hidden=true;$('#ziwei-content').hidden=false}
+  function renderZiweiChart(chart){currentZiwei=chart;const positions=['1/1','1/2','1/3','1/4','2/4','3/4','4/4','4/3','4/2','4/1','3/1','2/1'],list=chart.palaces.map((palace,index)=>({palace,index})).sort((a,b)=>ZIWEI_PALACE_ORDER[a.palace.key]-ZIWEI_PALACE_ORDER[b.palace.key]),transformations=chart.transformations.map(item=>item.mutagen+' '+item.star+' → '+item.palace).join(' · '),summary=chart.summary,center='<section class="ziwei-center"><div><small>'+escapeHTML(tr('ziweiSolar'))+'</small><strong>'+escapeHTML(summary.solarDate)+'</strong></div><div><small>'+escapeHTML(tr('ziweiLunar'))+'</small><strong>'+escapeHTML(summary.lunarDate)+'</strong></div><div><small>'+escapeHTML(tr('ziweiTime'))+'</small><strong>'+escapeHTML(summary.time)+'</strong></div><div><small>'+escapeHTML(tr('ziweiFive'))+'</small><strong>'+escapeHTML(summary.fiveElementsClass)+'</strong></div><div><small>'+escapeHTML(tr('ziweiSoul'))+'</small><strong>'+escapeHTML(summary.soul)+'</strong></div><div><small>'+escapeHTML(tr('ziweiBody'))+'</small><strong>'+escapeHTML(summary.body)+'</strong></div><div style="grid-column:1/-1"><small>'+escapeHTML(tr('ziweiTransformations'))+'</small><strong>'+escapeHTML(transformations)+'</strong></div></section>';$('#ziwei-board').innerHTML=chart.palaces.map((palace,index)=>ziweiPalaceMarkup(palace,index,positions[index],chart)).join('')+center;$('#ziwei-list').innerHTML=list.map(({palace,index})=>'<li><button type="button" data-ziwei-palace="'+index+'"><strong>'+escapeHTML(palace.name)+'</strong> · '+escapeHTML(palace.heavenlyStem+' '+palace.earthlyBranch)+' — '+escapeHTML(palace.major.map(star=>ziweiStarLabel(star,palace.borrowed)).join(', ')||'—')+'</button></li>').join('');$$('[data-ziwei-palace]').forEach(button=>button.onclick=()=>selectZiweiPalace(Number(button.dataset.ziweiPalace)));const boardButtons=$$('#ziwei-board [data-ziwei-palace]');boardButtons.forEach((button,index)=>button.onkeydown=event=>{const delta={ArrowRight:1,ArrowLeft:-1,ArrowDown:3,ArrowUp:-3}[event.key];if(delta===undefined)return;event.preventDefault();boardButtons[(index+delta+12)%12].focus()});setZiweiMode(matchMedia('(max-width:419px)').matches?'list':'grid');$('#ziwei-footnote').textContent=tr('ziweiFootnote')+' '+tr('ziweiLeapNote')+(chart.gender==='undisclosed'||chart.gender===null?' '+tr('ziweiNoDecadal'):'');$('#ziwei-status').hidden=true;$('#ziwei-content').hidden=false}
   async function renderZiweiView(){const status=$('#ziwei-status'),content=$('#ziwei-content'),draft=ziweiDraft||answers;content.hidden=true;$('#ziwei-detail').hidden=true;if(!draft?.time||draft.unknownTime){status.textContent=tr('ziweiNeedsTime');status.hidden=false;return}status.textContent=tr('ziweiLoading');status.hidden=false;try{renderZiweiChart(await createZiweiChart(draft))}catch{status.textContent=tr('ziweiUnavailable');status.hidden=false}}
   function startReading(){if(!answers.placeExplicit)answers.place=DEFAULT_PLACE[lang];$('#reading-disclaimer').hidden=true;homeSections.forEach(s=>$(s).hidden=true);$('#reading-flow').hidden=false;$('#question-screen').hidden=false;$('#manga-screen').hidden=true;$('#feedback-screen').hidden=true;stepIndex=0;renderQuestion();syncTelegramMainButton();window.scrollTo({top:0,behavior:'smooth'})}
   function renderQuestion(){const q=F[lang].steps[stepIndex],box=$('#question-input'),stepTotal=F[lang].steps.length;$('#reading-disclaimer').hidden=true;$('#question-screen').hidden=false;$('#reading-wait').hidden=true;$('#manga-screen').hidden=true;$('#feedback-screen').hidden=true;$('#flow-privacy').textContent=tr(consentCurrent?'savedAnswers':'localAnswers');syncTelegramBackButton();$('#step-label').textContent=String(stepIndex+1).padStart(2,'0');$('#step-total').textContent='/ '+String(stepTotal).padStart(2,'0');$('#step-progress').max=stepTotal;$('#step-progress').value=stepIndex+1;$('#question-eyebrow').textContent=F[lang].stepEyebrow;$('#question-title').textContent=q.q;$('#question-help').textContent=q.help;$('#question-error').textContent='';$('#question-prev').textContent=stepIndex===0?F[lang].home:F[lang].back;$('#question-next').textContent=stepIndex===stepTotal-1?F[lang].begin:F[lang].next;

diff --git a/DESIGN.md b/DESIGN.md
@@ -60,7 +60,7 @@ Use rounded rectangles (9–18px) for cards and controls. The avatar and moon us
 - Page turns: use `HapticFeedback.selectionChanged()` when available, for buttons, page dots, keyboard navigation, and swipe. Do not require haptics for the reader to work.
 - Accessibility: give the unknown-time checkbox and feedback options explicit names using their localized labels. When a user row has no name, show the Telegram ID once.
 - Reading answers: keep them in current-page memory without current v5 consent. With v5 consent, save the specified fields—including optional gender for Zi Wei decade direction—in the separate `reading_profiles` record for prefill and story generation; My account owns edit and delete controls. The Zi Wei chart is browser-only and is not persisted.
-- Zi Wei time uses the same historical-zone standard date and time as BaZi, including a previous-day rollover when daylight-saving subtraction crosses midnight. Chinese star and palace names remain internal lookup keys; en/vi display iztro's locale data, while km/th display Haku's paired translations with the Chinese original in parentheses.
+- Zi Wei time uses the same historical-zone standard date and time as BaZi, including a previous-day rollover when daylight-saving subtraction crosses midnight. Chinese star and palace names remain internal lookup keys; vi displays iztro's locale data, en uses Haku's pinyin-and-plain-English terms, and km/th display Haku's paired translations with the Chinese original in parentheses.
 - Below 420px, the Zi Wei chart opens in the readable list view. The optional palace grid keeps 11px minimum text and scrolls inside its own container rather than widening the page.
 - Five-element ties: show every tied strongest or weakest element. Page 6 still needs one action; when weakest elements tie, choose by their relationship to the day master in this fixed order: generates me (生我), same as me (同我), I generate (我生), I control (我克), controls me (克我).
 - Historical birth times: resolve each birthplace through its IANA time zone. Use the actual instant for solar-term boundaries, but subtract any daylight-saving offset before calculating the hour pillar and the 23:00 day rollover. If a daylight-saving jump skipped the entered wall time, use the first valid local minute after the gap; if a repeated wall time is ambiguous, use its earlier occurrence. Show the applied rule in the questionnaire and reading whenever it applies.
